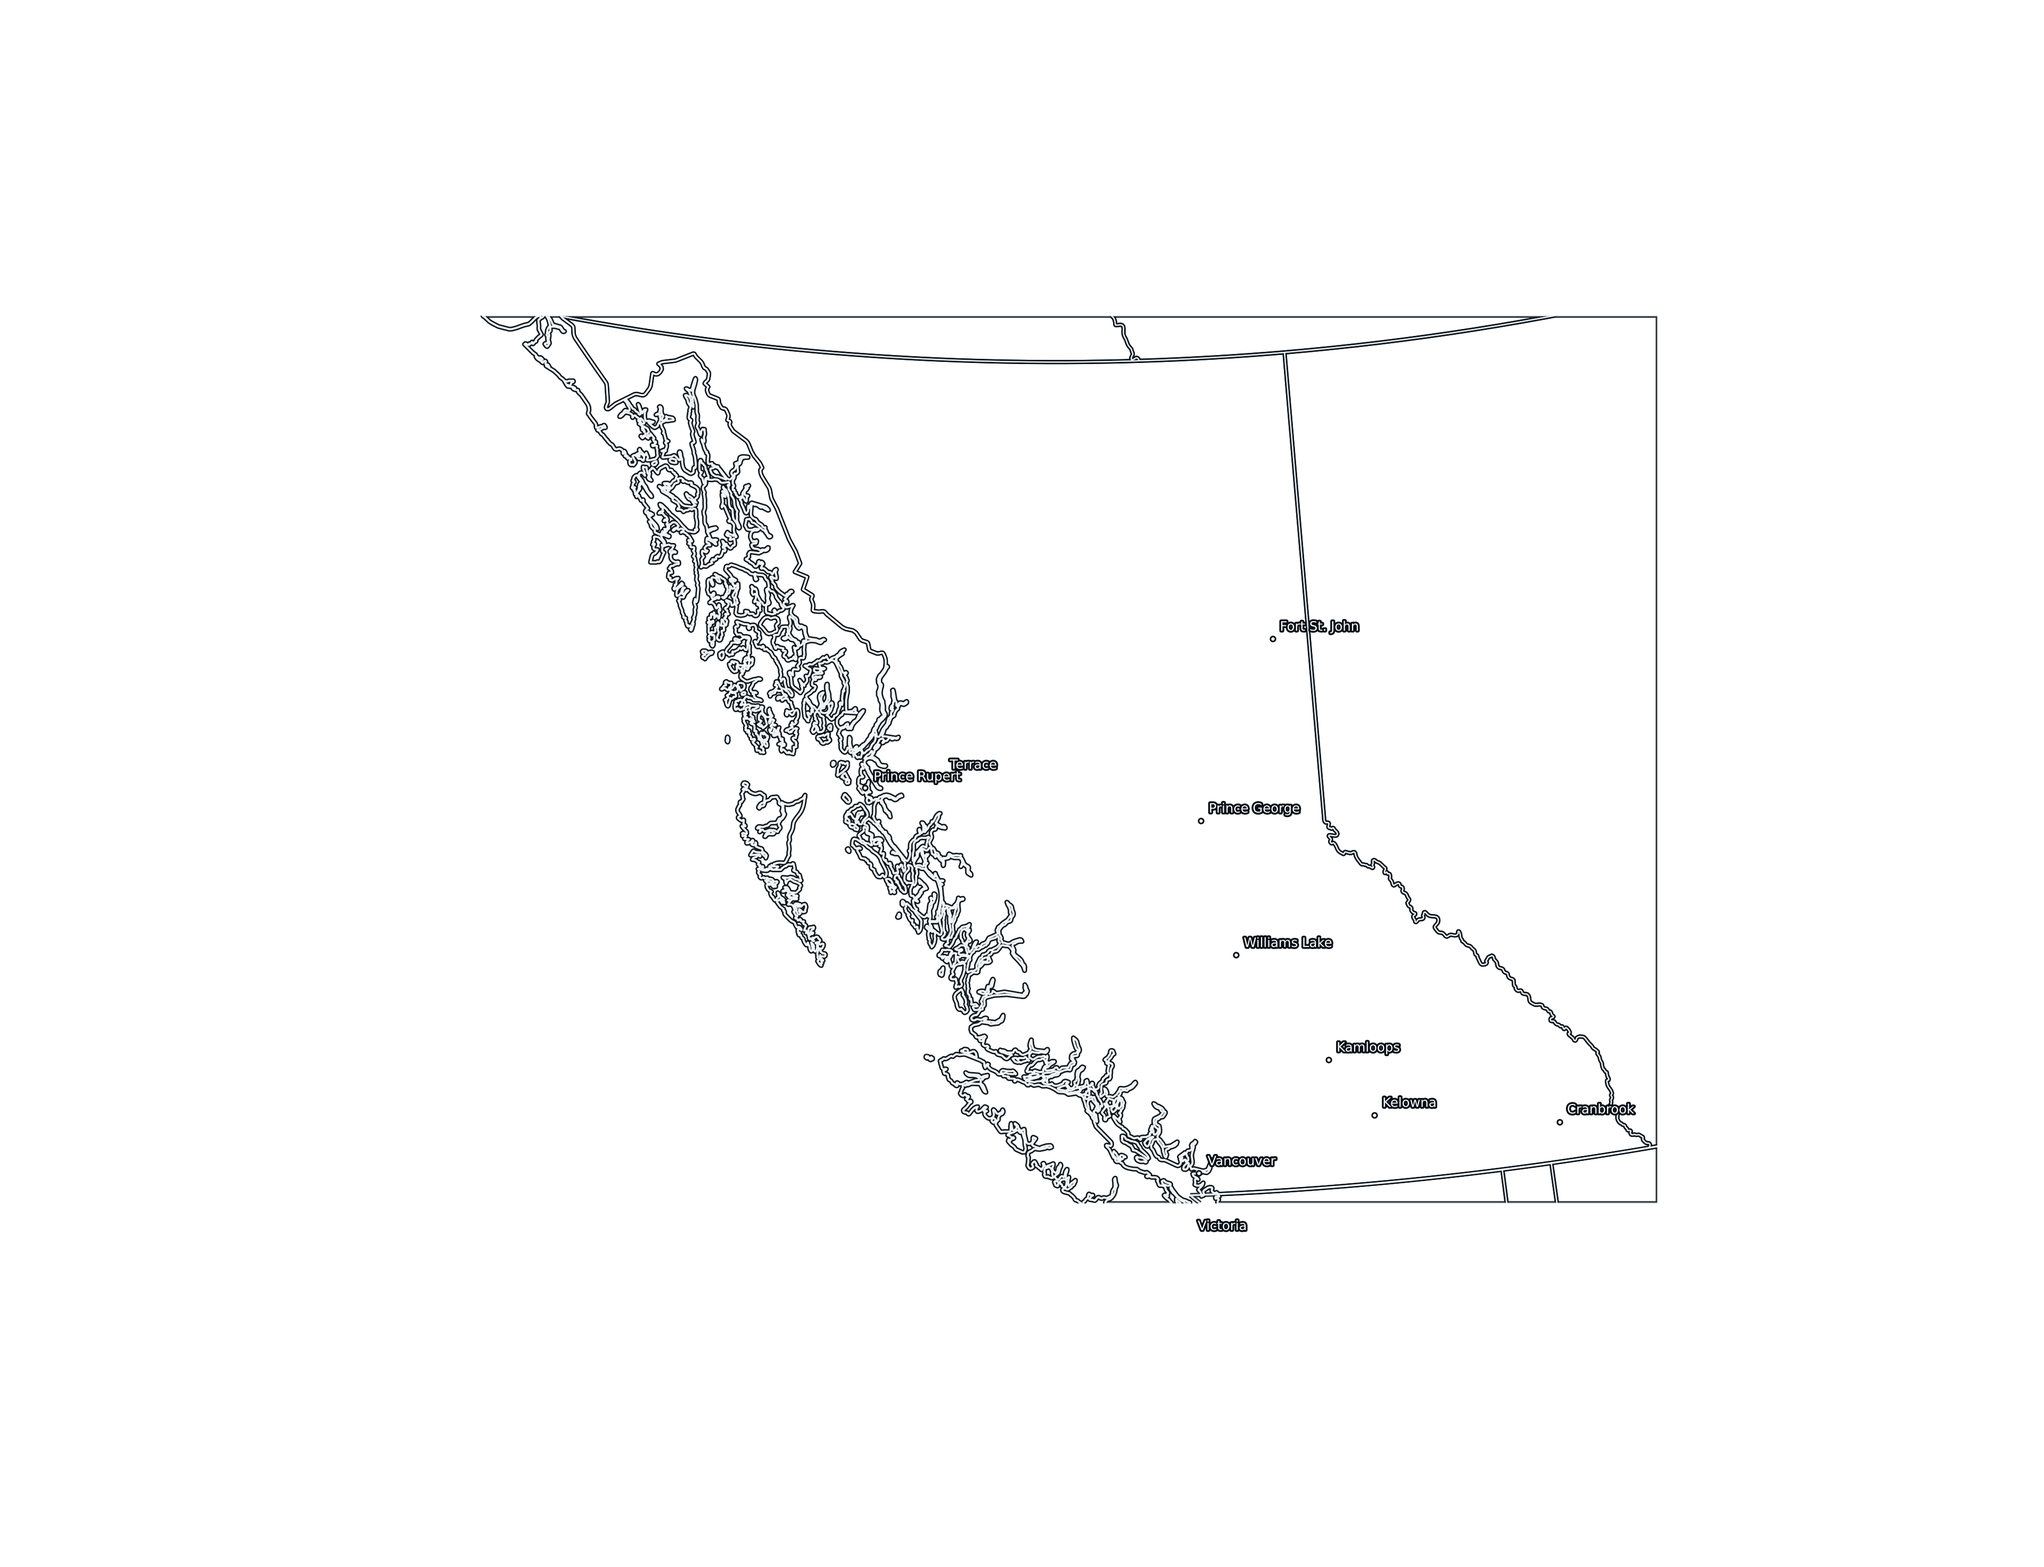
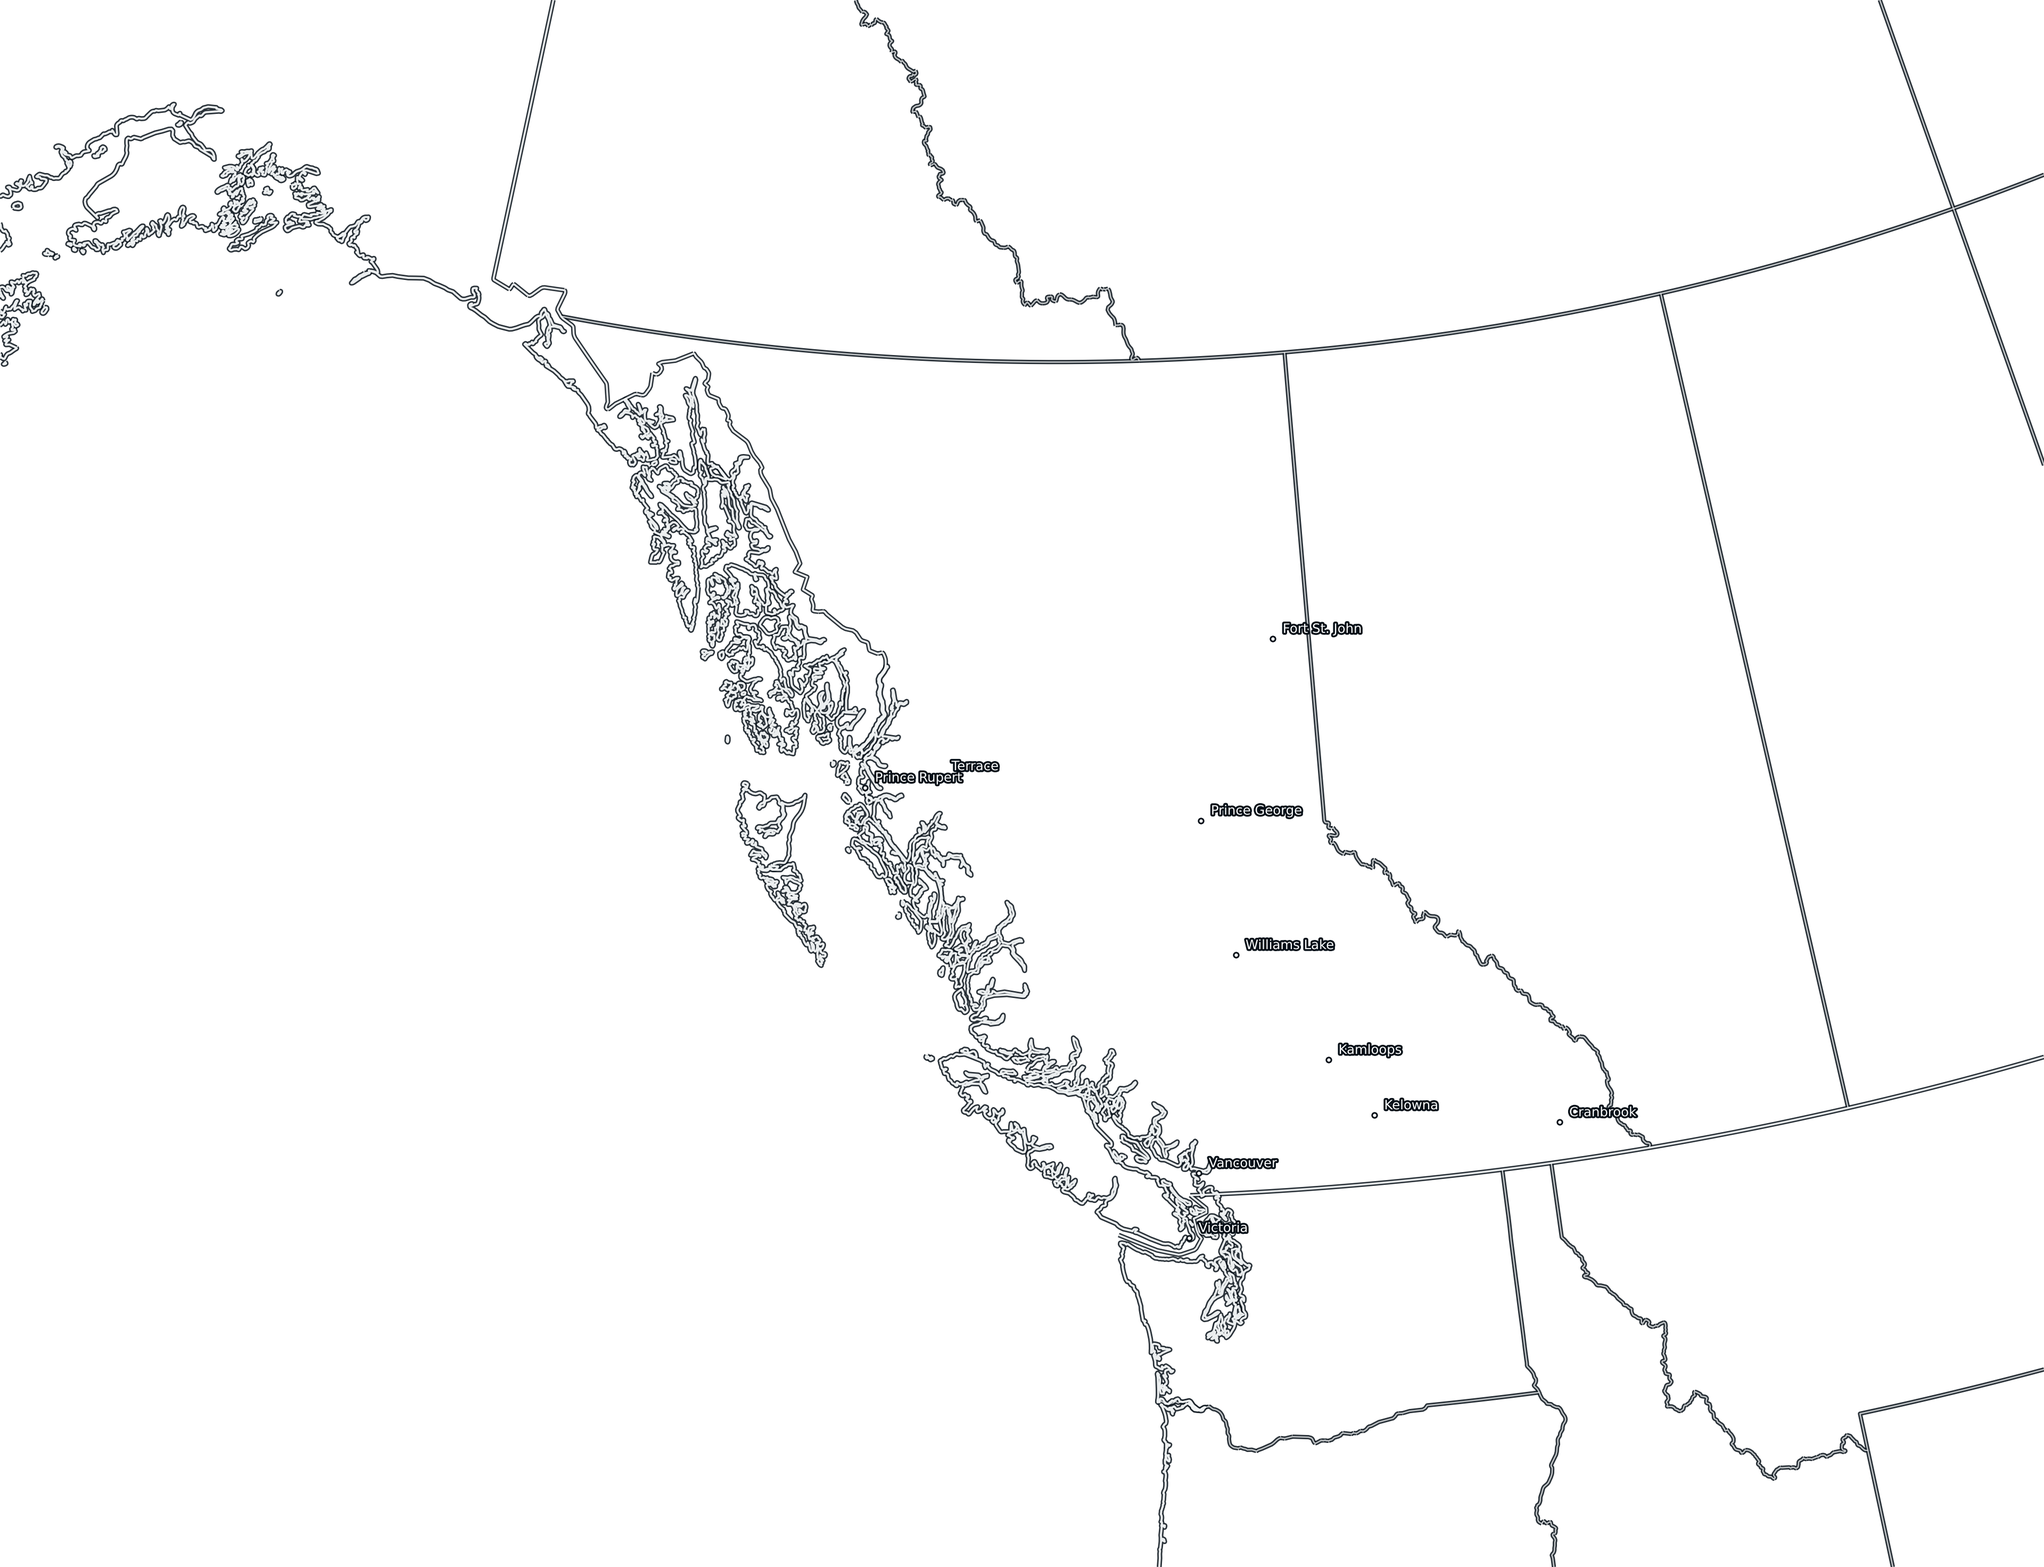
Fix BC boundary coverage and satellite flicker

diff --git a/app/radar-viewer.tsx b/app/radar-viewer.tsx
@@ -69,7 +69,7 @@ type Domain = {
   height: number;
   projection: string;
   layers: Record<string, DynamicLayer>;
-  staticLayers: Record<string, { path: string }>;
+  staticLayers: Record<string, { path: string; revision?: string }>;
 };
 
 type ProductLayer = {
@@ -168,7 +168,7 @@ const WEB_MERCATOR_RADIUS = 6_378_137;
 const WGS84_ECCENTRICITY = 0.08181919084262149;
 const NORTH_AMERICA_BOUNDS = [-21_051_700.011, 557_305.257, -4_551_782.871, 12_932_243.112] as const;
 const NORTH_PACIFIC_BOUNDS = [-3_339_584.7, 764_000, 15_584_728.7, 11_413_000] as const;
-const imageFrameCache = new Map<string, Promise<void>>();
+const imageFrameCache = new Map<string, Promise<boolean>>();
 const lightningMarkerCache = new Map<string, Promise<LightningMarker[]>>();
 const fireMarkerCache = new Map<string, Promise<FireMarker[]>>();
 const IMAGE_FRAME_CACHE_LIMIT = 96;
@@ -292,29 +292,31 @@ function frameUrl(frame: Frame, base: string): string {
   return url.toString();
 }
 
-function preloadImageFrame(url: string): Promise<void> {
+function preloadImageFrame(url: string): Promise<boolean> {
   const existing = imageFrameCache.get(url);
   if (existing) {
     imageFrameCache.delete(url);
     imageFrameCache.set(url, existing);
     return existing;
   }
-  const request = new Promise<void>((resolve) => {
+  const request = new Promise<boolean>((resolve) => {
     const image = new Image();
     let finished = false;
-    const finish = () => {
+    const finish = (loaded: boolean) => {
       if (finished) return;
       finished = true;
-      if (typeof image.decode === "function") {
-        void image.decode().catch(() => undefined).then(() => resolve());
+      if (loaded && typeof image.decode === "function") {
+        void image.decode()
+          .then(() => resolve(true))
+          .catch(() => resolve(image.naturalWidth > 0));
       } else {
-        resolve();
+        resolve(loaded);
       }
     };
-    image.onload = finish;
-    image.onerror = () => resolve();
+    image.onload = () => finish(true);
+    image.onerror = () => finish(false);
     image.src = url;
-    if (image.complete) finish();
+    if (image.complete) finish(image.naturalWidth > 0);
   });
   imageFrameCache.set(url, request);
   while (imageFrameCache.size > IMAGE_FRAME_CACHE_LIMIT) {
@@ -323,6 +325,46 @@ function preloadImageFrame(url: string): Promise<void> {
     imageFrameCache.delete(oldest);
   }
   return request;
+}
+
+function StableMapImage({
+  src,
+  className,
+  style,
+  layerId,
+}: {
+  src: string;
+  className: string;
+  style: CSSProperties;
+  layerId: string;
+}) {
+  const [displayedSrc, setDisplayedSrc] = useState(src);
+
+  useEffect(() => {
+    if (displayedSrc === src) return;
+    let current = true;
+    void preloadImageFrame(src).then((loaded) => {
+      if (current && loaded) setDisplayedSrc(src);
+    });
+    return () => {
+      current = false;
+    };
+  }, [displayedSrc, src]);
+
+  // Keep the previous decoded raster visible until the replacement is ready.
+  // This preserves the exact animation clock without showing a blank layer
+  // during a slower satellite download or decode.
+  // eslint-disable-next-line @next/next/no-img-element
+  return (
+    <img
+      className={className}
+      src={displayedSrc}
+      alt=""
+      aria-hidden="true"
+      data-layer-id={layerId}
+      style={style}
+    />
+  );
 }
 
 function pointFrameReferences(
@@ -709,9 +751,11 @@ function composeLayers(
     ) return [];
     const staticLayer = domain.staticLayers[recipe.id];
     if (staticLayer) {
+      const url = new URL(staticLayer.path, catalogBase);
+      if (staticLayer.revision) url.searchParams.set("v", staticLayer.revision);
       return [{
         id: recipe.id,
-        url: absoluteUrl(staticLayer.path, catalogBase),
+        url: url.toString(),
         opacity: recipe.opacity,
       }];
     }
@@ -732,7 +776,8 @@ function composeLayers(
     } else if (product.domain === "bc" && recipe.id === "raw-visir") {
       const standardLayer = domain.layers["raw-visir"];
       const nativeLayer = domain.layers["raw-visir-native"];
-      const nativeFrame = nearestFrame(nativeLayer?.frames ?? [], anchor.validTime, 2);
+      const nativeFrame = nearestFrame(nativeLayer?.frames ?? [], anchor.validTime, 2)
+        ?? atOrBefore(nativeLayer?.frames ?? [], anchor.validTime, nativeLayer?.maxAgeMinutes);
       const standardFrame = nearestFrame(standardLayer?.frames ?? [], anchor.validTime, 2)
         ?? atOrBefore(standardLayer?.frames ?? [], anchor.validTime, standardLayer?.maxAgeMinutes);
       if (nativeFrame) {
@@ -2065,17 +2110,13 @@ export function RadarViewer() {
           >
             {!anchor && <div className="map-loading">No frames are available for this product yet.</div>}
             {composedLayers.map((layer) => (
-              // Raw overlay rasters must retain their exact common-grid dimensions.
-              // eslint-disable-next-line @next/next/no-img-element
-              <img
+              <StableMapImage
                 className={`map-layer${layer.arrival ? " lightning-arrival-layer" : ""}`}
                 src={layer.url}
-                alt=""
-                aria-hidden="true"
-                data-layer-id={layer.renderId ?? layer.id}
+                layerId={layer.renderId ?? layer.id}
                 key={layer.arrival
-                  ? `${layer.id}-${layer.frame ? actualSourceTime(layer.id, layer.frame) : layer.url}`
-                  : layer.id}
+                  ? `${product.id}-${layer.id}-${layer.frame ? actualSourceTime(layer.id, layer.frame) : layer.url}`
+                  : `${product.id}-${layer.id}`}
                 style={{
                   ...(layer.stageAligned ? FULL_LAYER_STYLE : cropStyle),
                   opacity: layer.opacity,

diff --git a/radarsat/images.py b/radarsat/images.py
@@ -530,8 +530,13 @@ def render_static_maps(
     matplotlib.use("Agg")
     import matplotlib.patheffects as path_effects
     import matplotlib.pyplot as plt
+    from matplotlib.collections import LineCollection
     import cartopy.crs as ccrs
     import cartopy.feature as cfeature
+    import cartopy.io.shapereader as shapereader
+    from pyproj import Transformer
+    from shapely.geometry import box
+    from shapely.ops import transform as transform_geometry
 
     projection = ccrs.epsg(int(domain.crs.split(":", 1)[1]))
     bbox = projected_bbox(domain)
@@ -564,7 +569,15 @@ def render_static_maps(
         xlocs=range(-180, 181, 10 if domain.tier == "broad" else 5),
         ylocs=range(0 if domain.tier == "broad" else 40, 81, 10 if domain.tier == "broad" else 5),
     )
-    figure.savefig(base_destination, dpi=dpi, transparent=False, pad_inches=0)
+    temporary_base = base_destination.with_suffix(base_destination.suffix + ".tmp")
+    figure.savefig(
+        temporary_base,
+        dpi=dpi,
+        transparent=False,
+        pad_inches=0,
+        format="png",
+    )
+    temporary_base.replace(base_destination)
     plt.close(figure)
 
     boundary_figsize = (
@@ -572,32 +585,104 @@ def render_static_maps(
         domain.height * boundary_scale / dpi,
     )
     figure = plt.figure(figsize=boundary_figsize, dpi=dpi, facecolor="none")
-    axis = figure.add_axes([0, 0, 1, 1], projection=projection)
-    configure_axes(axis)
-    provinces = cfeature.NaturalEarthFeature(
-        "cultural",
-        "admin_1_states_provinces",
-        "10m",
-        facecolor="none",
-    )
-    borders = cfeature.BORDERS.with_scale("10m")
-    coastline = cfeature.COASTLINE.with_scale("10m")
-    for feature, width in ((coastline, 2.8), (borders, 2.6), (provinces, 2.4)):
-        axis.add_feature(
-            feature,
-            edgecolor="#071018",
-            linewidth=width * boundary_scale,
-            alpha=0.86,
-            zorder=5,
+    if domain.id == "bc":
+        # Cartopy clips EPSG:3005 features to the CRS's official BC area of
+        # use, even though our operational grid intentionally extends well
+        # into neighbouring provinces, territories and U.S. states. Project
+        # Natural Earth linework directly onto an ordinary axis so boundaries
+        # cover the complete raster instead of stopping at the BC outline.
+        axis = figure.add_axes([0, 0, 1, 1])
+        configure_axes(axis)
+        clip_box = box(*bbox)
+        transformer = Transformer.from_crs("EPSG:4326", domain.crs, always_xy=True)
+
+        def geometry_segments(geometry: object) -> list[list[tuple[float, float]]]:
+            geometry_type = getattr(geometry, "geom_type", "")
+            if geometry_type in {"LineString", "LinearRing"}:
+                coordinates = list(geometry.coords)
+                return [coordinates] if len(coordinates) >= 2 else []
+            segments: list[list[tuple[float, float]]] = []
+            for child in getattr(geometry, "geoms", ()):
+                segments.extend(geometry_segments(child))
+            return segments
+
+        def natural_earth_segments(category: str, name: str) -> list[list[tuple[float, float]]]:
+            source = shapereader.natural_earth("10m", category, name)
+            segments: list[list[tuple[float, float]]] = []
+            for geometry in shapereader.Reader(source).geometries():
+                west, south, east, north = geometry.bounds
+                if east < -175 or west > -80 or north < 30 or south > 75:
+                    continue
+                try:
+                    projected = transform_geometry(transformer.transform, geometry)
+                    clipped = projected.intersection(clip_box)
+                except Exception:
+                    continue
+                segments.extend(geometry_segments(clipped))
+            return segments
+
+        linework = (
+            (
+                natural_earth_segments("physical", "coastline"),
+                2.8,
+                1.15,
+                0.96,
+            ),
+            (
+                natural_earth_segments("cultural", "admin_0_boundary_lines_land"),
+                2.6,
+                1.05,
+                0.94,
+            ),
+            (
+                natural_earth_segments("cultural", "admin_1_states_provinces_lines"),
+                2.4,
+                0.72,
+                0.78,
+            ),
         )
-    for feature, width, alpha in ((coastline, 1.15, 0.96), (borders, 1.05, 0.94), (provinces, 0.72, 0.78)):
-        axis.add_feature(
-            feature,
-            edgecolor="#f4f7f8",
-            linewidth=width * boundary_scale,
-            alpha=alpha,
-            zorder=6,
+        for segments, dark_width, light_width, light_alpha in linework:
+            axis.add_collection(LineCollection(
+                segments,
+                colors="#071018",
+                linewidths=dark_width * boundary_scale,
+                alpha=0.86,
+                zorder=5,
+            ))
+            axis.add_collection(LineCollection(
+                segments,
+                colors="#f4f7f8",
+                linewidths=light_width * boundary_scale,
+                alpha=light_alpha,
+                zorder=6,
+            ))
+    else:
+        axis = figure.add_axes([0, 0, 1, 1], projection=projection)
+        configure_axes(axis)
+        provinces = cfeature.NaturalEarthFeature(
+            "cultural",
+            "admin_1_states_provinces",
+            "10m",
+            facecolor="none",
         )
+        borders = cfeature.BORDERS.with_scale("10m")
+        coastline = cfeature.COASTLINE.with_scale("10m")
+        for feature, width in ((coastline, 2.8), (borders, 2.6), (provinces, 2.4)):
+            axis.add_feature(
+                feature,
+                edgecolor="#071018",
+                linewidth=width * boundary_scale,
+                alpha=0.86,
+                zorder=5,
+            )
+        for feature, width, alpha in ((coastline, 1.15, 0.96), (borders, 1.05, 0.94), (provinces, 0.72, 0.78)):
+            axis.add_feature(
+                feature,
+                edgecolor="#f4f7f8",
+                linewidth=width * boundary_scale,
+                alpha=alpha,
+                zorder=6,
+            )
 
     cities = [
         ("Victoria", -123.37, 48.43),
@@ -612,22 +697,21 @@ def render_static_maps(
         ("Cranbrook", -115.77, 49.51),
     ]
     for name, lon, lat in cities if domain.id == "bc" else []:
+        city_x, city_y = transformer.transform(lon, lat)
         axis.plot(
-            lon,
-            lat,
+            city_x,
+            city_y,
             marker="o",
             markersize=2.8 * boundary_scale,
             color="#ffffff",
             markeredgecolor="#071018",
             markeredgewidth=0.9 * boundary_scale,
-            transform=ccrs.PlateCarree(),
             zorder=8,
         )
         text = axis.text(
-            lon + 0.18,
-            lat + 0.10,
+            city_x + (bbox[2] - bbox[0]) * 0.0048,
+            city_y + (bbox[3] - bbox[1]) * 0.0038,
             name,
-            transform=ccrs.PlateCarree(),
             color="#ffffff",
             fontsize=7.3 * boundary_scale,
             weight="medium",
@@ -640,5 +724,15 @@ def render_static_maps(
             ),
             path_effects.Normal(),
         ])
-    figure.savefig(boundary_destination, dpi=dpi, transparent=True, pad_inches=0)
+    temporary_boundaries = boundary_destination.with_suffix(
+        boundary_destination.suffix + ".tmp"
+    )
+    figure.savefig(
+        temporary_boundaries,
+        dpi=dpi,
+        transparent=True,
+        pad_inches=0,
+        format="png",
+    )
+    temporary_boundaries.replace(boundary_destination)
     plt.close(figure)

diff --git a/tests/test_catalog.py b/tests/test_catalog.py
@@ -86,6 +86,19 @@ class CatalogTests(unittest.TestCase):
 
             self.assertNotIn("radar-rain", rebuilt["domains"]["bc"]["layers"])
 
+    def test_static_layers_include_a_cache_busting_revision(self) -> None:
+        with tempfile.TemporaryDirectory() as temporary:
+            root = Path(temporary)
+            boundary = root / "static" / "bc" / "boundaries.png"
+            boundary.parent.mkdir(parents=True, exist_ok=True)
+            boundary.write_bytes(b"boundary")
+
+            rebuilt = build_catalog(root)
+            entry = rebuilt["domains"]["bc"]["staticLayers"]["boundaries"]
+
+            self.assertEqual(entry["path"], "static/bc/boundaries.png")
+            self.assertTrue(entry["revision"].isdigit())
+
 
 if __name__ == "__main__":
     unittest.main()

diff --git a/radarsat/catalog.py b/radarsat/catalog.py
@@ -165,7 +165,10 @@ def build_catalog(root: Path) -> dict[str, Any]:
             ):
                 path = root / "static" / domain_id / filename
                 if path.exists():
-                    static_layers[layer_id] = {"path": path.relative_to(root).as_posix()}
+                    static_layers[layer_id] = {
+                        "path": path.relative_to(root).as_posix(),
+                        "revision": str(path.stat().st_mtime_ns),
+                    }
             domains[domain_id] = {
                 "id": domain.id,
                 "title": domain.title,

diff --git a/radarsat/pipeline.py b/radarsat/pipeline.py
@@ -78,7 +78,7 @@ DETAILED_REGIONAL_HAZARD_WIDTH = 3840
 DETAILED_REGIONAL_SYMBOL_REFERENCE_WIDTH = 1440
 BROAD_HAZARD_SCALE = 2
 BROAD_FIRE_SYMBOL_REFERENCE_WIDTH = 1920
-STATIC_BOUNDARY_RENDER_VERSION = 2
+STATIC_BOUNDARY_RENDER_VERSION = 3
 STATIC_TRANSMISSION_RENDER_VERSION = 2
 DEFAULT_SOURCE_LAYERS = (
     "daynight",
